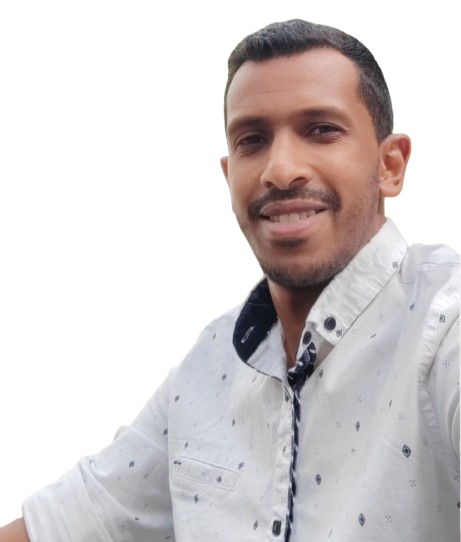
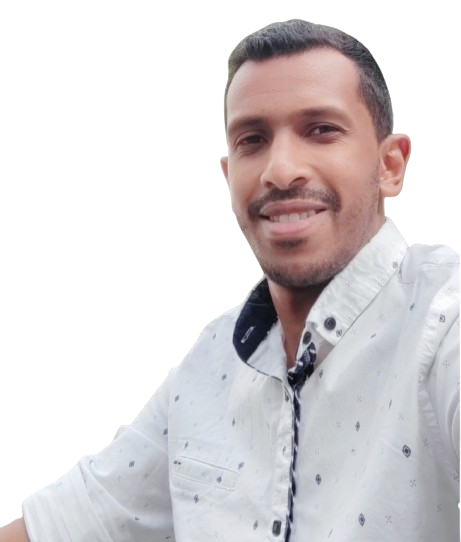
MODIFY: proifle-image CSS

diff --git a/css/style.css b/css/style.css
@@ -18,7 +18,7 @@
 }
 
 body {
-    background-color: var(--black);
+    background-color:  #181A1B;
     font-family: 'Raleway', sans-serif;
 }
 
@@ -153,12 +153,16 @@ header {
 .profile_image img {
     filter: grayscale(100%);
     transition: .2s linear;
-    background-color: #181a1c;
+    /* #1A1A1A */
+    box-shadow: rgba(99, 99, 99, 0.2) 0px 2px 2px 2px;
 }
 
 .profile_image img:hover {
-    filter: grayscale(0%);
-    box-shadow: rgba(99, 99, 99, 0.2) 0px 2px 8px 0px;
+    filter: grayscale(30%);
+    /* background-color: #181a1c; */
+    background-color: #171818;
+    box-shadow: rgba(99, 99, 99, 0.2) 0px 0px 8px 0px;
+
 }
 
 #skills {
